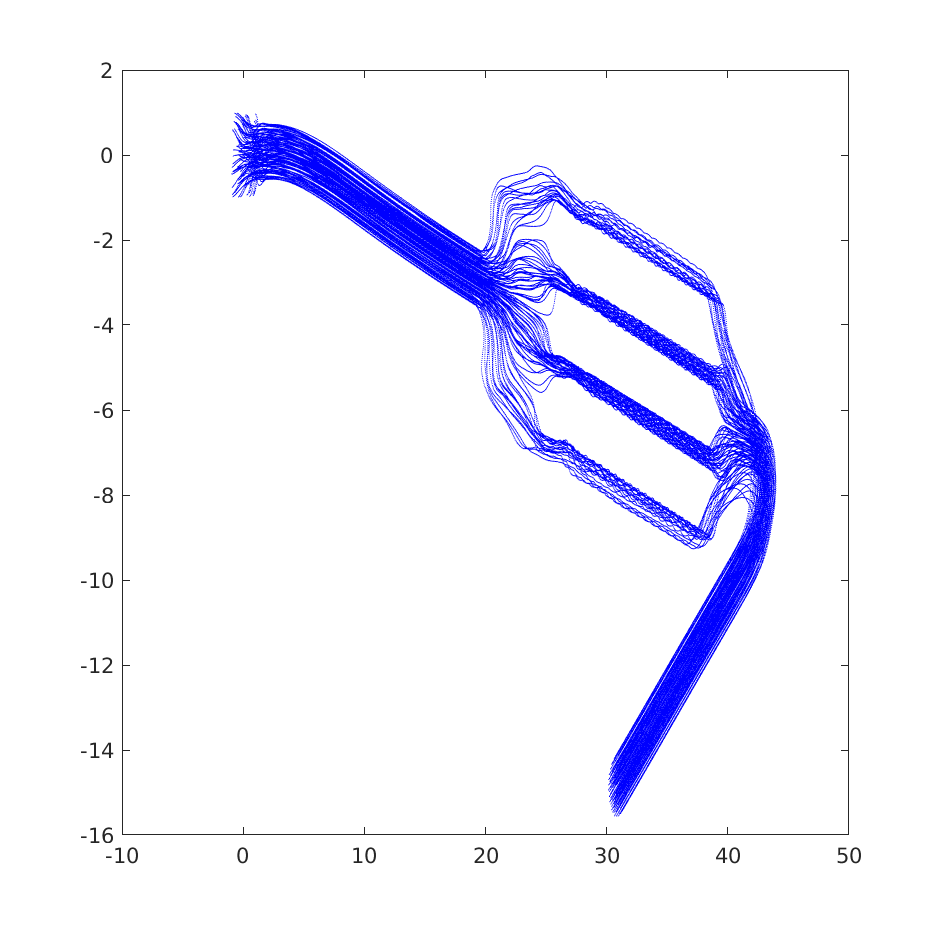
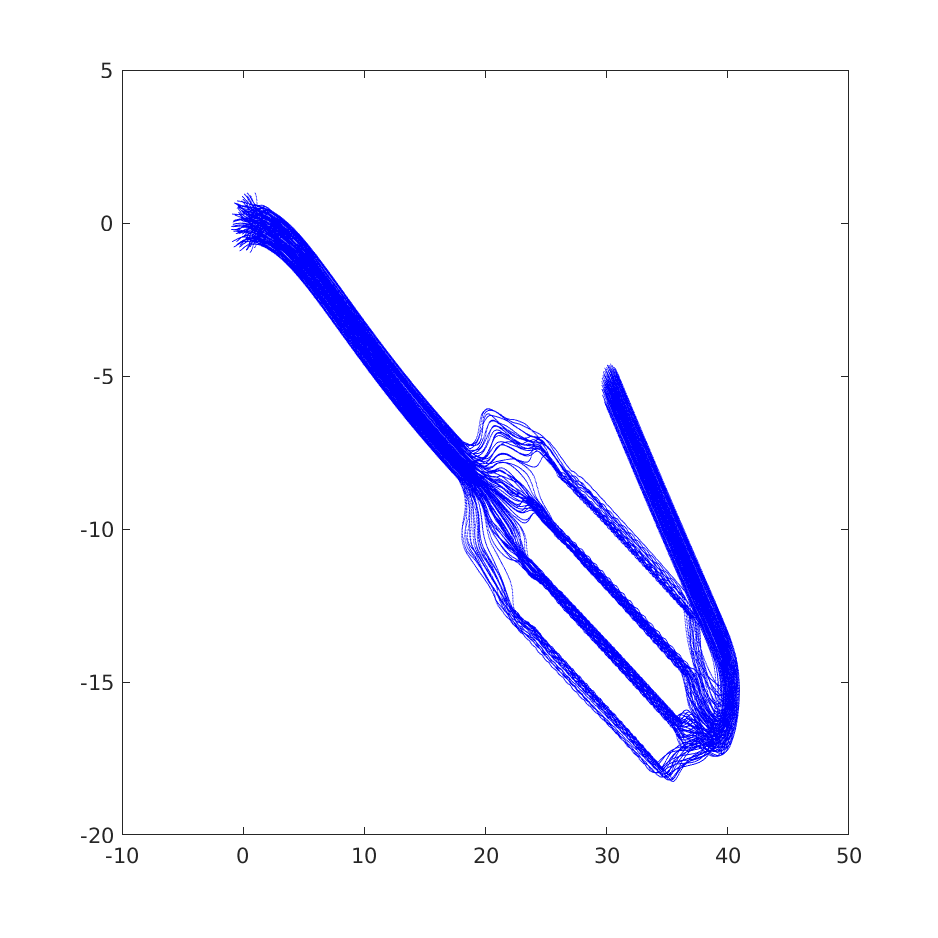
add independent split result

diff --git a/target_tracking/target_tracking_law.m b/target_tracking/target_tracking_law.m
@@ -13,7 +13,7 @@ w = 3;
 C1 = 2; l1 = 0.5; C2 = 1; l2 = 1;
 num_robots = 100;
 betaa = sqrt(5)/10;
-gamm_a = 0.1;
+gamm_a = 2.2;
 r0 = 0.1;
 
 max_iter = 1000;
@@ -62,7 +62,7 @@ for j = 1:max_iter
 	
 	S0(:, 3) = wrapTo180(S0(:, 3));
 
-	if (j > 200 & j < 600)
+	if (j > 400 & j < 600)
 		'splitting'            
 		%plot(logs(:, 2, j), logs(:, 1, j), '.', 'MarkerSize', 5, 'Color', [0, 0, 1]); hold on;
 		% plot(logs(:, 2, j), j*tsamp, '.', 'MarkerSize', 5, 'Color', [0, 0, 1]); hold on;
@@ -71,16 +71,16 @@ for j = 1:max_iter
 
 		lambda = 0.29;
 	else
-		%plot(logs(:, 2, j), logs(:, 1, j), '.', 'MarkerSize', 5, 'Color', [0, 1, 0]); hold on;
-  %       plot(logs(:, 2, j), j*tsamp, '.', 'MarkerSize', 5, 'Color', [0, 1, 0]); hold on;
-		% xlim([-inf, inf]);
-		% ylim([-inf, inf]);
+	% % 	%plot(logs(:, 2, j), logs(:, 1, j), '.', 'MarkerSize', 5, 'Color', [0, 1, 0]); hold on;
+ % %  %       plot(logs(:, 2, j), j*tsamp, '.', 'MarkerSize', 5, 'Color', [0, 1, 0]); hold on;
+	% % 	% xlim([-inf, inf]);
+	% % 	% ylim([-inf, inf]);
 
 		lambda = 0;
 	end
 
-	if (j > 400)
-		b = 3.39;
+	if (j > 500)
+		b = min(2.89, b + 0.0289*(j-500));
 	end
 	% if(mod(j, 50) == 0)
 	% 	figure('Position', [100, 100, 600, 600], 'visible', 'off');
@@ -99,7 +99,7 @@ for k = 1:num_robots
 	y_plot(:) = logs(k, 2, :);
 	plot(x_plot, y_plot, '.', 'MarkerSize', 1, 'Color', [0, 0, 1]); hold on;
 end
-saveas(gcf, 'path_target.png');
+saveas(gcf, 'target_track.png');
 close;
 
 % figure('Position', [100,100,600,600], 'visible', 'off');

diff --git a/target_tracking/functions/get_rel_pos_target.m b/target_tracking/functions/get_rel_pos_target.m
@@ -1,6 +1,6 @@
 function rel_pos_target = get_rel_pos_target(S, targets)
 	global num_robots;
 	rel_pos_target = zeros(2, num_robots, 2);
-	rel_pos_target(1, :, :) = S(:, 1:2) - repmat(targets(1, :), num_robots, 1);
-	rel_pos_target(2, :, :) = S(:, 1:2) - repmat(targets(2, :), num_robots, 1);
+	rel_pos_target(1, :, :) = repmat(targets(1, :), num_robots, 1) - S(:, 1:2);
+	rel_pos_target(2, :, :) = repmat(targets(2, :), num_robots, 1) - S(:, 1:2);
 end

diff --git a/swarm aggregation/misc/wrapTo180.m b/swarm aggregation/misc/wrapTo180.m
@@ -1,5 +1,5 @@
 function [out] = wrapTo180(in)
 %NORM_ANGLE Normalizes input angles to range [-180..180]
 %   Input vector is expected to be degree angles that are unwrapped.
-    out = mod(in + 180, 360) - 180;
+    out = mod(in + pi, 2*pi) - pi;
 end
